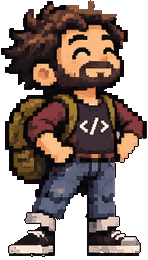
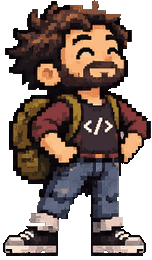
Intro Nacho: rebuild the left shoe properly and draw him 1:1
The left shoe is now a mirror of the complete right shoe (filled canvas
upper, laces, toe cap, sole and underside) on the same ground line, and
the missing outlines on the right hand and shoe toes are 2 px like the
rest of the art. Also fixes a CSS override that drew the 260 px art at
288-360 px, scaling pixels unevenly; it is now shown 1:1.

Claude-Session: https://claude.ai/code/session_01TrKHjLpm7yGKA7h6gdrdVj

diff --git a/index.html b/index.html
@@ -87,8 +87,9 @@
       display: grid;
       place-items: center;
     }
-    /* The intro Nacho is the high-detail Pixellab art: 260 px cells, shown 1:1. */
-    .sprite--stand { --frame: 260px; --scale: var(--hero); will-change: transform; }
+    /* The intro Nacho is the high-detail Pixellab art: 260 px cells, shown 1:1 (two classes, so the
+       general sprite size rules below can't override it and scale his pixels unevenly). */
+    .sprite.sprite--stand { --frame: 260px; --scale: var(--hero); will-change: transform; }
     .scene--code { justify-items: start; padding-left: max(16px, 6vw); }
     .scene--guitar { justify-items: end; padding-right: max(16px, 6vw); }
 

diff --git a/tools/fix_hd_still.py b/tools/fix_hd_still.py
@@ -1,13 +1,14 @@
 """Repair the high-detail front-facing Nacho still where Pixellab's background removal ate pixels.
 
-    python3 tools/fix_hd_still.py   # -> art/pixellab/hd/south-fixed.png (148x260)
+    python3 tools/fix_hd_still.py   # -> art/pixellab/hd/south-fixed.png
 
-- Adds 4 rows below the feet: the soles touched the bottom edge and were cut flat.
-- Left shoe: rebuilds the missing front of the canvas upper (a dark shape sloping down to the toe),
-  keeping the existing laces and toe highlights.
-- Both soles: closes holes in the white rubber and gaps in the dark underside.
-- Outline: a 1 px dark outline where light pixels meet transparency, only around the right hand and
-  the shoes, where the original outline is missing.
+- Left shoe: most of its upper was missing. It is rebuilt as a mirror image of the complete right shoe
+  (canvas upper, laces, white toe cap, sole, dark underside), aligned to the same ground line, so its
+  fill, shading and outline weight match. The left sock cuff above it is kept.
+- Right shoe and right hand: their outer outline was missing; it is redrawn 2 px thick, the weight the
+  art uses elsewhere, in the art's own outline colour. The rebuilt left shoe's toe gets the same.
+- Both soles: gaps in the 3-row dark underside are closed.
+- 4 px of room on the left (for the left shoe's toe) and below the feet.
 """
 from pathlib import Path
 import numpy as np
@@ -16,47 +17,51 @@ from PIL import Image
 ROOT = Path(__file__).resolve().parents[1]
 src = np.array(Image.open(ROOT / 'art' / 'pixellab' / 'hd' / 'rotations' / 'south.png').convert('RGBA'))
 H, W = src.shape[:2]
-a = np.zeros((H + 4, W, 4), np.uint8)
-a[:H] = src
+PAD_L, PAD_B = 4, 4
+a = np.zeros((H + PAD_B, W + PAD_L, 4), np.uint8)
+a[:H, PAD_L:] = src
+X = lambda x: x + PAD_L  # original x -> padded x
 lum = lambda p: p[..., :3].astype(int) @ [.3, .59, .11]
+OUTLINE = tuple(np.median(src[253:256, 88:130][src[253:256, 88:130, 3] > 0][:, :3], axis=0).astype(np.uint8)) + (255,)
 
-opaque = a[..., 3] > 0
-dark = opaque & (lum(a) < 45)
-SHOE = tuple(np.median(a[226:245, 42:54][dark[226:245, 42:54]][:, :3], axis=0).astype(np.uint8)) + (255,)
-OUTLINE = (20, 15, 18, 255)
-SOLE = tuple(np.median(a[246:251, 15:45][opaque[246:251, 15:45]][:, :3], axis=0).astype(np.uint8)) + (255,)
+# Left shoe: mirror the right shoe (original x 86-141, rows 226-255). Its heel outline (x 86-88) lands on
+# the left leg's outline at x 54; rows stay the same, so both soles share the ground line.
+right = src[226:256, 86:142]
+mirror = right[:, ::-1]
+x1 = X(55)
+x0 = x1 - mirror.shape[1]
+zone = a[226:256, x0:x1]
+use = mirror[..., 3] > 0
+# Keep the original sock cuff (light pixels in the top rows) where the left leg has one.
+cuff = (zone[..., 3] > 0) & (lum(zone) > 110)
+cuff[5:] = False
+zone[use & ~cuff] = mirror[use & ~cuff]
+# Anything of the old broken shoe left outside the new shape goes.
+stale = (zone[..., 3] > 0) & ~use & ~cuff
+stale[:5] = False
+zone[stale] = 0
 
-# Left shoe upper: fill the empty area between a toe slope (x 40 at row 226 to x 12 at row 244) and the
-# back of the shoe at x 54.
-for y in range(226, 245):
-    left = round(40 + (12 - 40) * (y - 226) / (244 - 226))
-    row = a[y, left:55]
-    row[row[..., 3] == 0] = SHOE
-
-# Soles: fill holes between the first and last opaque pixel of each row (white rubber, then underside).
-for x0, x1 in ((0, 60), (84, W)):
-    for y in range(245, 253):
-        xs = np.nonzero(a[y, x0:x1, 3])[0]
-        if len(xs):
-            seg = a[y, x0 + xs[0]:x0 + xs[-1] + 1]
-            seg[seg[..., 3] == 0] = SOLE
+# Soles: close gaps in the dark underside (rows 253-255) under each shoe.
+for xa, xb in ((0, X(56)), (X(84), a.shape[1])):
     for y in range(253, 256):
-        xs = np.nonzero(a[252, x0:x1, 3])[0]  # underside spans the sole above it
-        seg = a[y, x0 + xs[0]:x0 + xs[-1] + 1]
-        seg[seg[..., 3] == 0] = OUTLINE
+        xs = np.nonzero(a[252, xa:xb, 3])[0]
+        if len(xs):
+            seg = a[y, xa + xs[0]:xa + xs[-1] + 1]
+            seg[seg[..., 3] == 0] = OUTLINE
 
-# Outline pass in the damaged regions only.
-regions = [(slice(115, 178), slice(104, W)),   # right hand
-           (slice(205, H + 4), slice(0, W))]     # shoes, including the new rows
-for _ in range(1):
-    opaque = a[..., 3] > 0
-    light = opaque & (lum(a) >= 45)
-    near = np.zeros_like(opaque)
-    near[1:] |= light[:-1]; near[:-1] |= light[1:]; near[:, 1:] |= light[:, :-1]; near[:, :-1] |= light[:, 1:]
-    mask = np.zeros_like(opaque)
-    for ys, xs in regions:
-        mask[ys, xs] = True
-    a[mask & near & ~opaque] = OUTLINE
+def outline(ys, xs, width=2):
+    """Grow a dark outline `width` px outward from light pixels that touch transparency, inside a box."""
+    for _ in range(width):
+        op = a[..., 3] > 0
+        edge = op & ((lum(a) >= 45) | (a[..., :3].astype(int) == OUTLINE[:3]).all(-1))
+        near = np.zeros_like(op)
+        near[1:] |= edge[:-1]; near[:-1] |= edge[1:]; near[:, 1:] |= edge[:, :-1]; near[:, :-1] |= edge[:, 1:]
+        box = np.zeros_like(op); box[ys, xs] = True
+        a[box & near & ~op] = OUTLINE
+
+outline(slice(118, 176), slice(X(108), a.shape[1]))   # right hand
+outline(slice(226, 253), slice(X(112), a.shape[1]))   # right shoe toe and sole edge
+outline(slice(226, 253), slice(0, X(26)))            # left shoe toe, matching the right one
 
 out = ROOT / 'art' / 'pixellab' / 'hd' / 'south-fixed.png'
 Image.fromarray(a).save(out)
